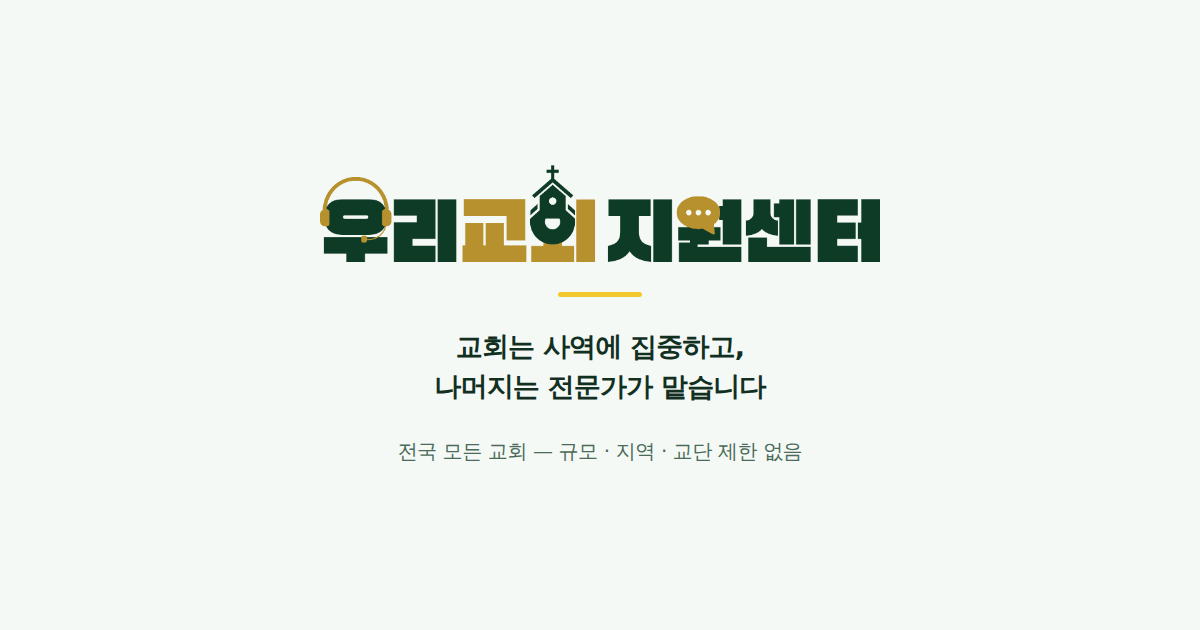
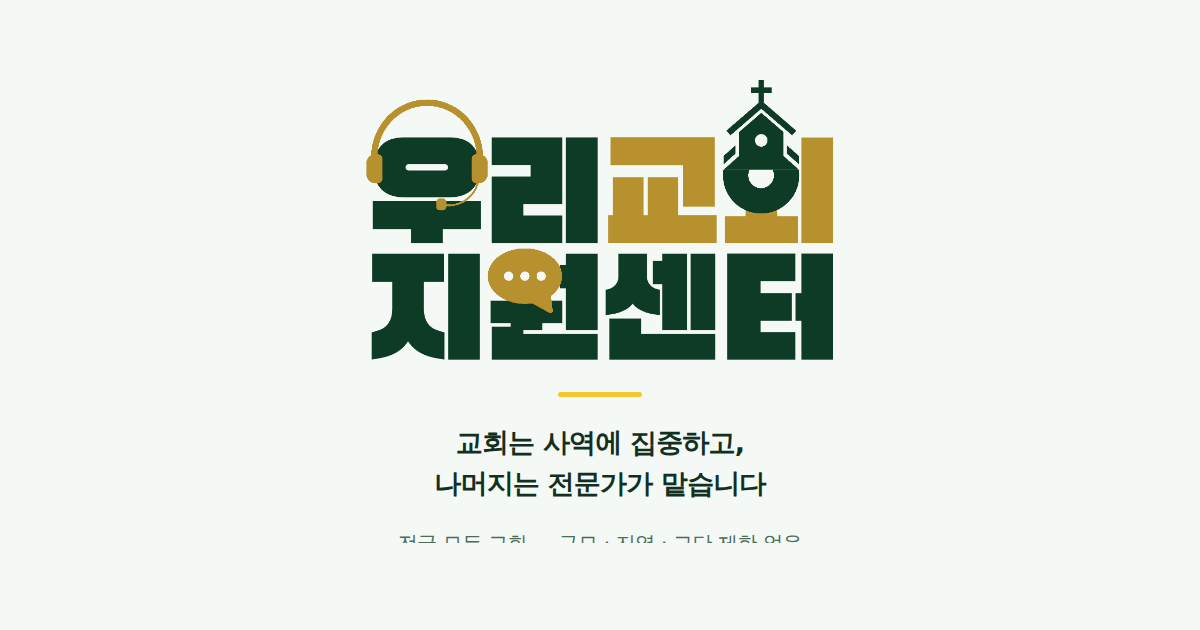
나눔 그림을 어느 쪽으로 잘려도 다 보이게 고쳤습니다
가로 로고(1780×307)는 너무 납작해서, 세로로 조금만 좁혀도 양끝이
잘렸습니다. 두 줄 로고(899×549)로 바꾸니 어느 방향으로 잘려도
남습니다.

- tools/og-card.html — logo-row.png → logo.png (두 줄), 480px
- assets/img/og-card.png 다시 뽑음

실제 메신저가 쓰는 비율 셋으로 잘라 확인했습니다 — 모두 로고 온전.
  1.91:1  페북 · 슬랙 · 카톡 큰 카드
  1:1     카톡 작은 카드
  4:5     실제로 쓰이는 가장 좁은 세로

지난번 시험에 넣었던 극단적인 세로 띠(0.5:1)는 제가 만든 억지
조건이었습니다. 그 비율을 쓰는 메신저는 없어, 거기에 맞추려고
로고를 더 줄이지는 않았습니다.

Claude-Session: https://claude.ai/code/session_01BaTDNFew23XGFfaCcdiAE8

diff --git a/tools/og-card.html b/tools/og-card.html
@@ -12,9 +12,9 @@
   .safe {
     width: 630px; height: 630px;
     display: flex; flex-direction: column; align-items: center; justify-content: center;
-    gap: 30px; padding: 40px;
+    gap: 26px; padding: 30px;
   }
-  img { width: 560px; display: block; }
+  img { width: 480px; display: block; }   /* 두 줄 로고 — 어느 쪽으로 잘려도 살아남습니다 */
   .tag {
     font-size: 27px; font-weight: 700; color: #12301F; letter-spacing: -.03em;
     text-align: center; line-height: 1.5;
@@ -23,7 +23,7 @@
   .sub { font-size: 20px; color: #4A6B58; letter-spacing: -.02em; }
 </style>
 <div class="safe">
-  <img src="file:///home/user/wcsc/assets/img/logo-row.png" alt="우리교회지원센터">
+  <img src="file:///home/user/wcsc/assets/img/logo.png" alt="우리교회지원센터">
   <div class="rule"></div>
   <div class="tag">교회는 사역에 집중하고,<br>나머지는 전문가가 맡습니다</div>
   <div class="sub">전국 모든 교회 — 규모 · 지역 · 교단 제한 없음</div>
